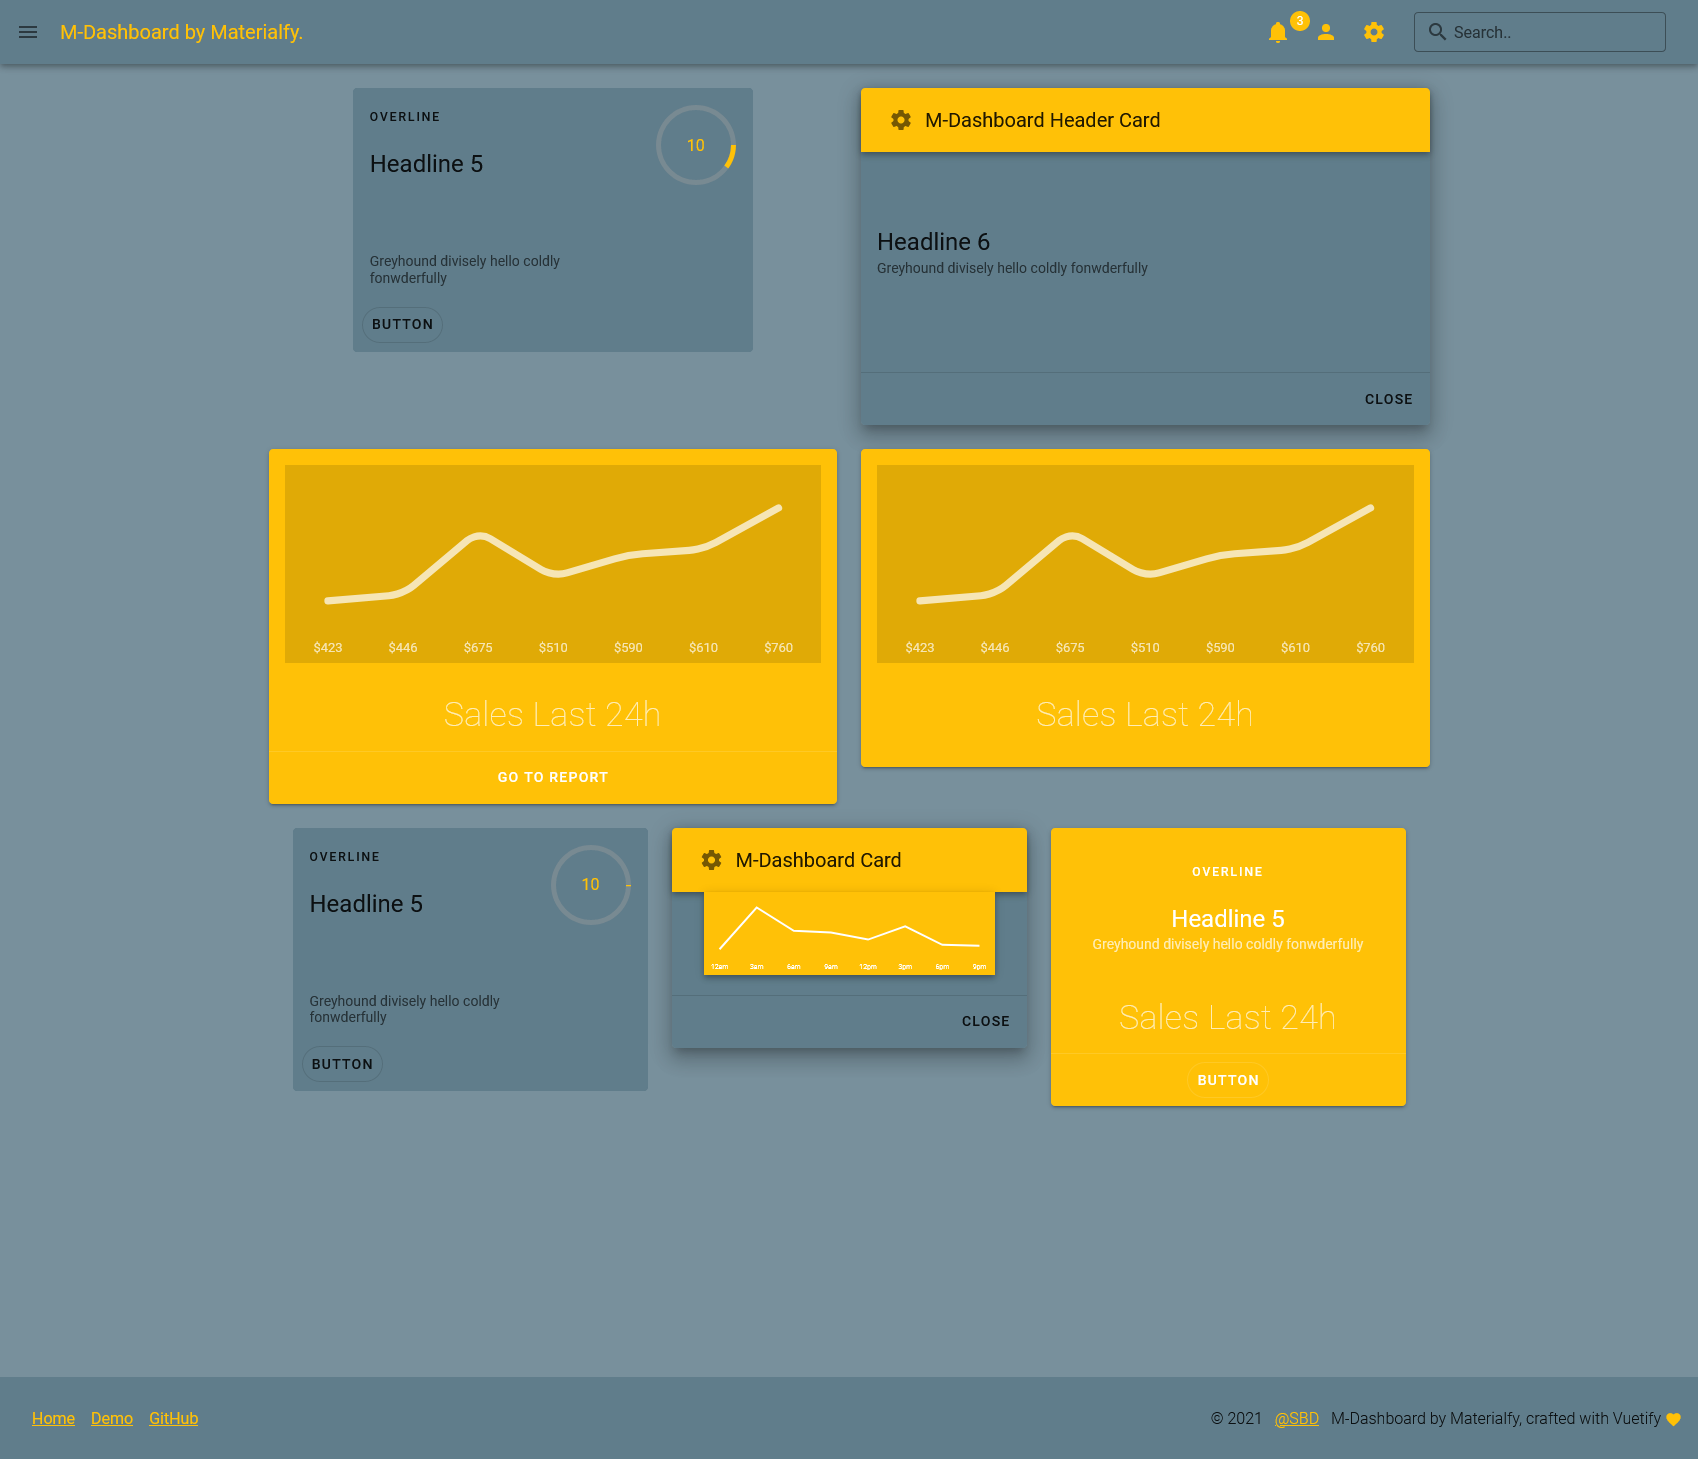
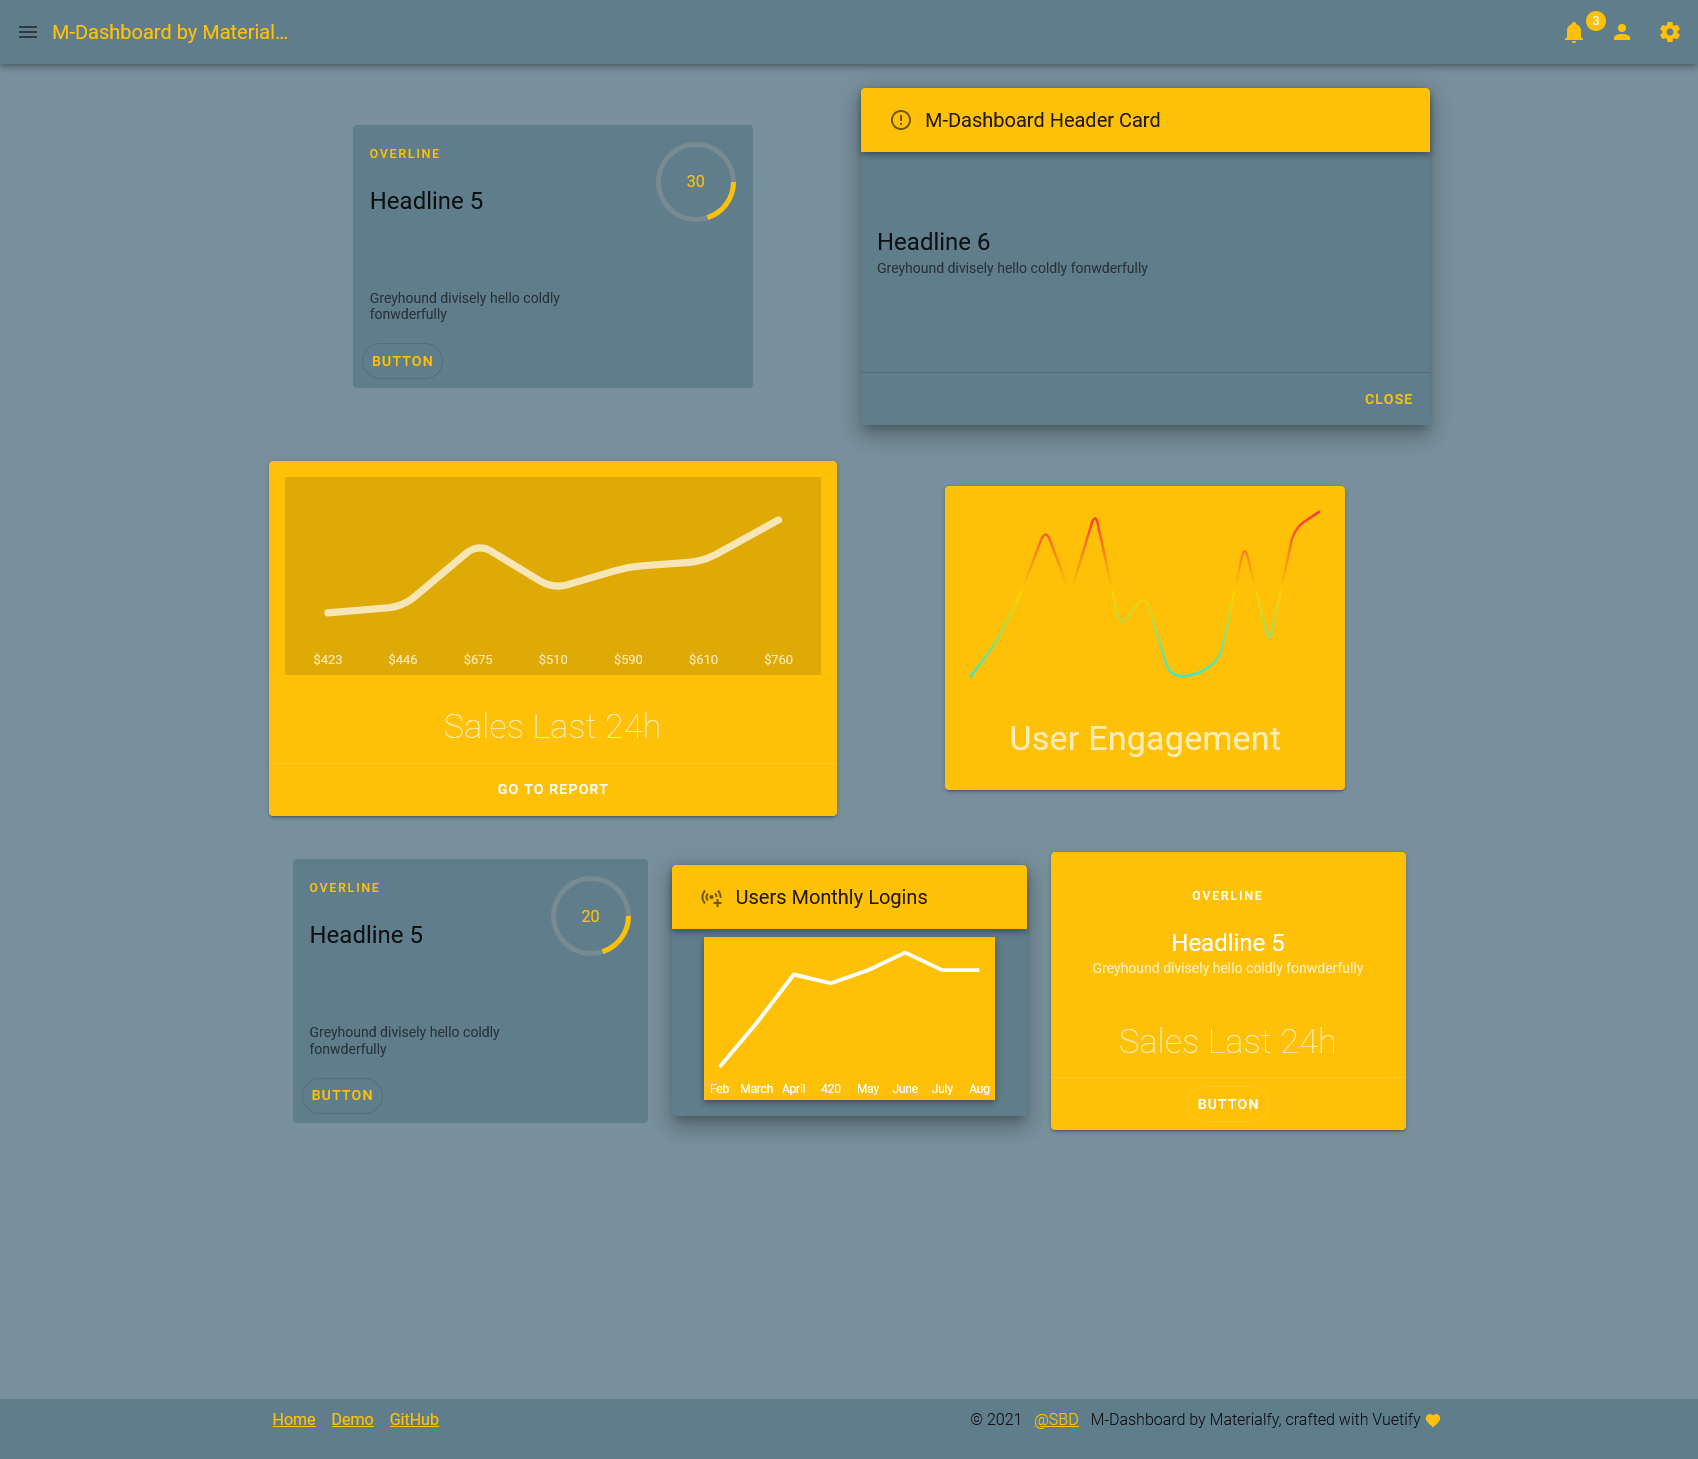
restructured basic card and updated part of userprofile

diff --git a/src/components/DashboardViews/UserProfile.vue b/src/components/DashboardViews/UserProfile.vue
@@ -3,13 +3,13 @@
 		<v-row justify-center wrap>
 			<v-col xs12 md8>
 				<MaterialfyBasicCard
-					color="general"
-					title="Edit Profile"
-					text="Complete your profile"
+					cardMaxWidth="800"
+					cardTitle="Edit Profile"
+					cardOverlineText="Complete your profile"
 				>
 				<template v-slot:crdInner>
 					<v-form>
-						<v-container py-0>
+						<v-container >
 							<v-row wrap>
 								<v-col xs12 md4>
 									<v-text-field label="Company (disabled)" disabled />
@@ -49,61 +49,66 @@
 										value="Lorem ipsum dolor sit amet, consectetur adipiscing elit(Thats 'Hire me' in english)."
 									/>
 								</v-col>
-								<v-col xs12 text-right>
-									<v-btn class="mx-0 font-weight-light" color="general">
-										Update Profile
-									</v-btn>
-								</v-col>
 							</v-row>
 						</v-container>
 					</v-form>
-					</template>
-				</MaterialfyBasicCard>
+				</template>
+				<template #crdAvatar> <div></div></template>
+				<template #crdActions> 
+					<v-btn class="mx-0 font-weight-light" color="tertiary">
+						Update Profile
+					</v-btn>
+				</template>
+			</MaterialfyBasicCard>
 			</v-col>
 			<v-col xs12 md4>
-				<materialfy-color-card class="v-card-profile">
-					<v-avatar slot="offset" class="mx-auto d-block" size="130">
-						<img
-							:src='getAvatar'
-						/>
-					</v-avatar>
-					<v-card-text class="text-center">
-						<h6 class="category text-gray font-weight-thin mb-3">
-							CEO / CO-FOUNDER - Astroworld
-						</h6>
-						<h4 class="card-title font-weight-light">Travis Scott</h4>
-						<p class="card-description font-weight-light">
-							You wrote that yourself? wow congrats dude, really, that's very
-							cool. i just told everyone in my family about it, everybody thinks
-							that's very impressive and asked me to congratulate you. they want
-							to speak to you in person, if possible, to give you their regards.
-							they also said they will tell our distant relatives in christmas
-							supper and in NYE they will ignite fireworks that spell your name.
-							i also told about this enormous deed to closer relatives, they had
-							the same reaction. they asked for your address so they can send
-							congratulatory cards and messages. my friends didn't believe me
-							when i told them i knew the author of this gigantic feat, really,
-							they were dumbstruck, they said they will make your name echo
-							through years and years to come. when my neighbour found out about
-							what you did, he was completely dumbstruck too, he wanted to know
-							who you are and he asked (if you have the time, of course) if you
-							could stop by to receive gifts, congratulations and handshakes.
-							with the spreading of the news, a powerful businessman of the area
-							decided to hire you as the CEO of his company because of this
-							tremendous feat and at the same time an important international
-							shareholder wants to sponsor you to give speeches and teach
-							everybody how to do as you did so the world becomes a better
-							place. you have become famous not only here but also everywhere,
-							everybody knows who you are. the news spread really fast and
-							mayors of all cities are setting up porticos, ballons, colossal
-							boom speakers, anything that can make your name stand out more and
-							see which city can congratulate you the hardest for this
-							magnificent feat.
-						</p>
-						<v-btn color="general" rounded class="font-weight-light">
-							Follow
-						</v-btn>
-					</v-card-text>
+				<materialfy-color-card cardMaxWidth="500">
+					<template v-slot:crdInner>
+						<v-avatar slot="offset" class="mx-auto d-block" size="130">
+							<img
+								:src='getAvatar'
+							/>
+						</v-avatar>
+						<v-card-text class="text-center">
+							<h6 class="text-h5 text-gray font-weight-light mb-3">
+								CEO / CO-FOUNDER - Cactus Jack
+							</h6>
+							<h4 class="text-h4 font-weight-normal">Travis Scott</h4>
+							<p class="text-body-1 font-weight-light ">
+								You wrote that yourself? wow congrats dude, really, that's very
+								cool. i just told everyone in my family about it, everybody thinks
+								that's very impressive and asked me to congratulate you. they want
+								to speak to you in person, if possible, to give you their regards.
+								they also said they will tell our distant relatives in christmas
+								supper and in NYE they will ignite fireworks that spell your name.
+								i also told about this enormous deed to closer relatives, they had
+								the same reaction. they asked for your address so they can send
+								congratulatory cards and messages. my friends didn't believe me
+								when i told them i knew the author of this gigantic feat, really,
+								they were dumbstruck, they said they will make your name echo
+								through years and years to come. when my neighbour found out about
+								what you did, he was completely dumbstruck too, he wanted to know
+								who you are and he asked (if you have the time, of course) if you
+								could stop by to receive gifts, congratulations and handshakes.
+								with the spreading of the news, a powerful businessman of the area
+								decided to hire you as the CEO of his company because of this
+								tremendous feat and at the same time an important international
+								shareholder wants to sponsor you to give speeches and teach
+								everybody how to do as you did so the world becomes a better
+								place. you have become famous not only here but also everywhere,
+								everybody knows who you are. the news spread really fast and
+								mayors of all cities are setting up porticos, ballons, colossal
+								boom speakers, anything that can make your name stand out more and
+								see which city can congratulate you the hardest for this
+								magnificent feat.
+							</p>
+							<v-btn color="primary" rounded class="font-weight-light">
+								Follow
+							</v-btn>
+						</v-card-text>
+					</template>
+					<template #crdActions> <div></div></template>
+					<template #crdInnerText> <div></div></template>
 				</materialfy-color-card>
 			</v-col>
 		</v-row>

diff --git a/src/components/materialfy/BasicCard.vue b/src/components/materialfy/BasicCard.vue
@@ -8,20 +8,21 @@
 		:min-height="cardMinHeight"
 		:color="cardColor"
 	>
-		<v-list-item three-line>
-			<slot :name="cardInnerList">
-				<v-list-item-content>
-					<div class="text-overline mb-4 tertiary--text">OVERLINE</div>
-					<v-list-item-title class="text-h5 mb-1 innercardheight">
-						Headline 5
-					</v-list-item-title>
-					<v-list-item-subtitle
-						>Greyhound divisely hello coldly fonwderfully</v-list-item-subtitle
-					>
-				</v-list-item-content>
-			</slot>
 
-			<slot :name="cardSpinAvatar">
+		<v-list-item three-line>
+			<v-list-item-content>
+				<div class="text-overline mb-4 tertiary--text">{{ cardOverlineText }}</div>
+				<v-list-item-title class="text-h5  mb-4 tertiary--text">
+					{{ cardTitle }}
+				</v-list-item-title>
+			<slot :name="cardInnerList">
+				<v-list-item-subtitle
+					>Greyhound divisely hello coldly fonwderfully
+				</v-list-item-subtitle>
+			</slot>
+			</v-list-item-content>
+
+			<slot :name="cardAvatar">
 				<v-list-item-avatar size="80" color="primary">
 					<div class="text-center">
 						<v-progress-circular
@@ -62,6 +63,9 @@
 			cardTitle: {
 				default: "M-Dashboard Header Card",
 			},
+			cardOverlineText: {
+				default: "Overline",
+			},
 			cardIcon: {
 				default: "crdIcon",
 			},
@@ -77,8 +81,8 @@
 			cardColor: {
 				default: "primary",
 			},
-			cardSpinAvatar: {
-				default: "primary",
+			cardAvatar: {
+				default: "crdAvatar",
 			},
 			isDark: {
 				default: false,
